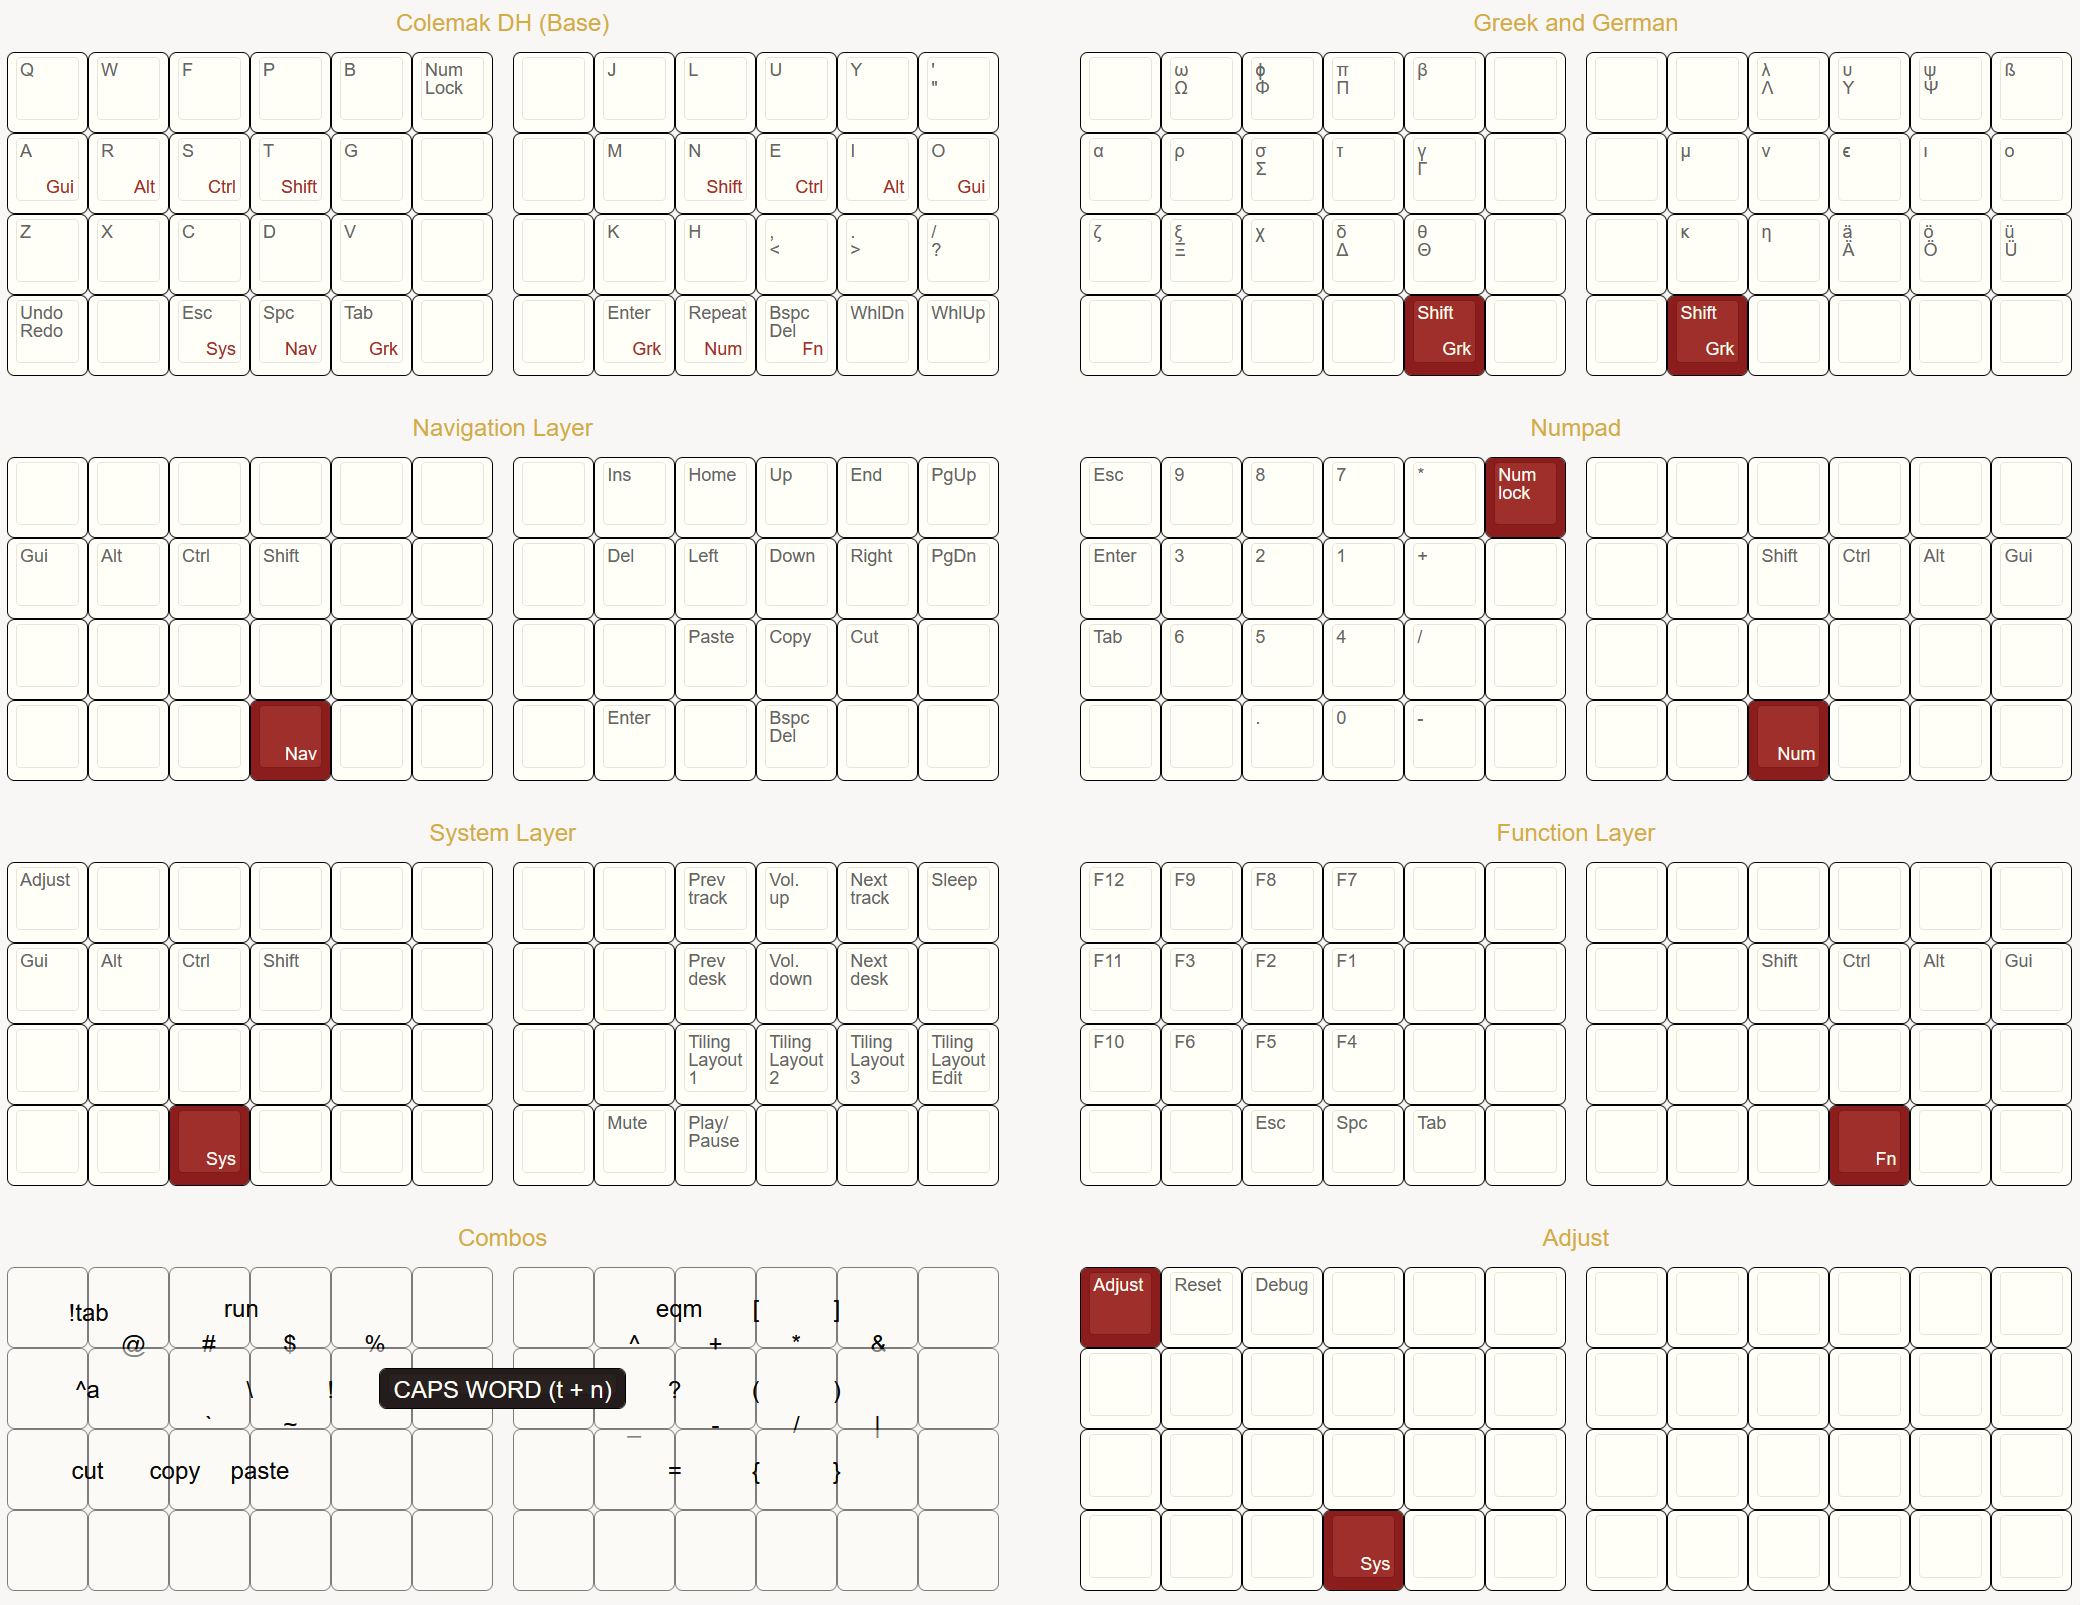
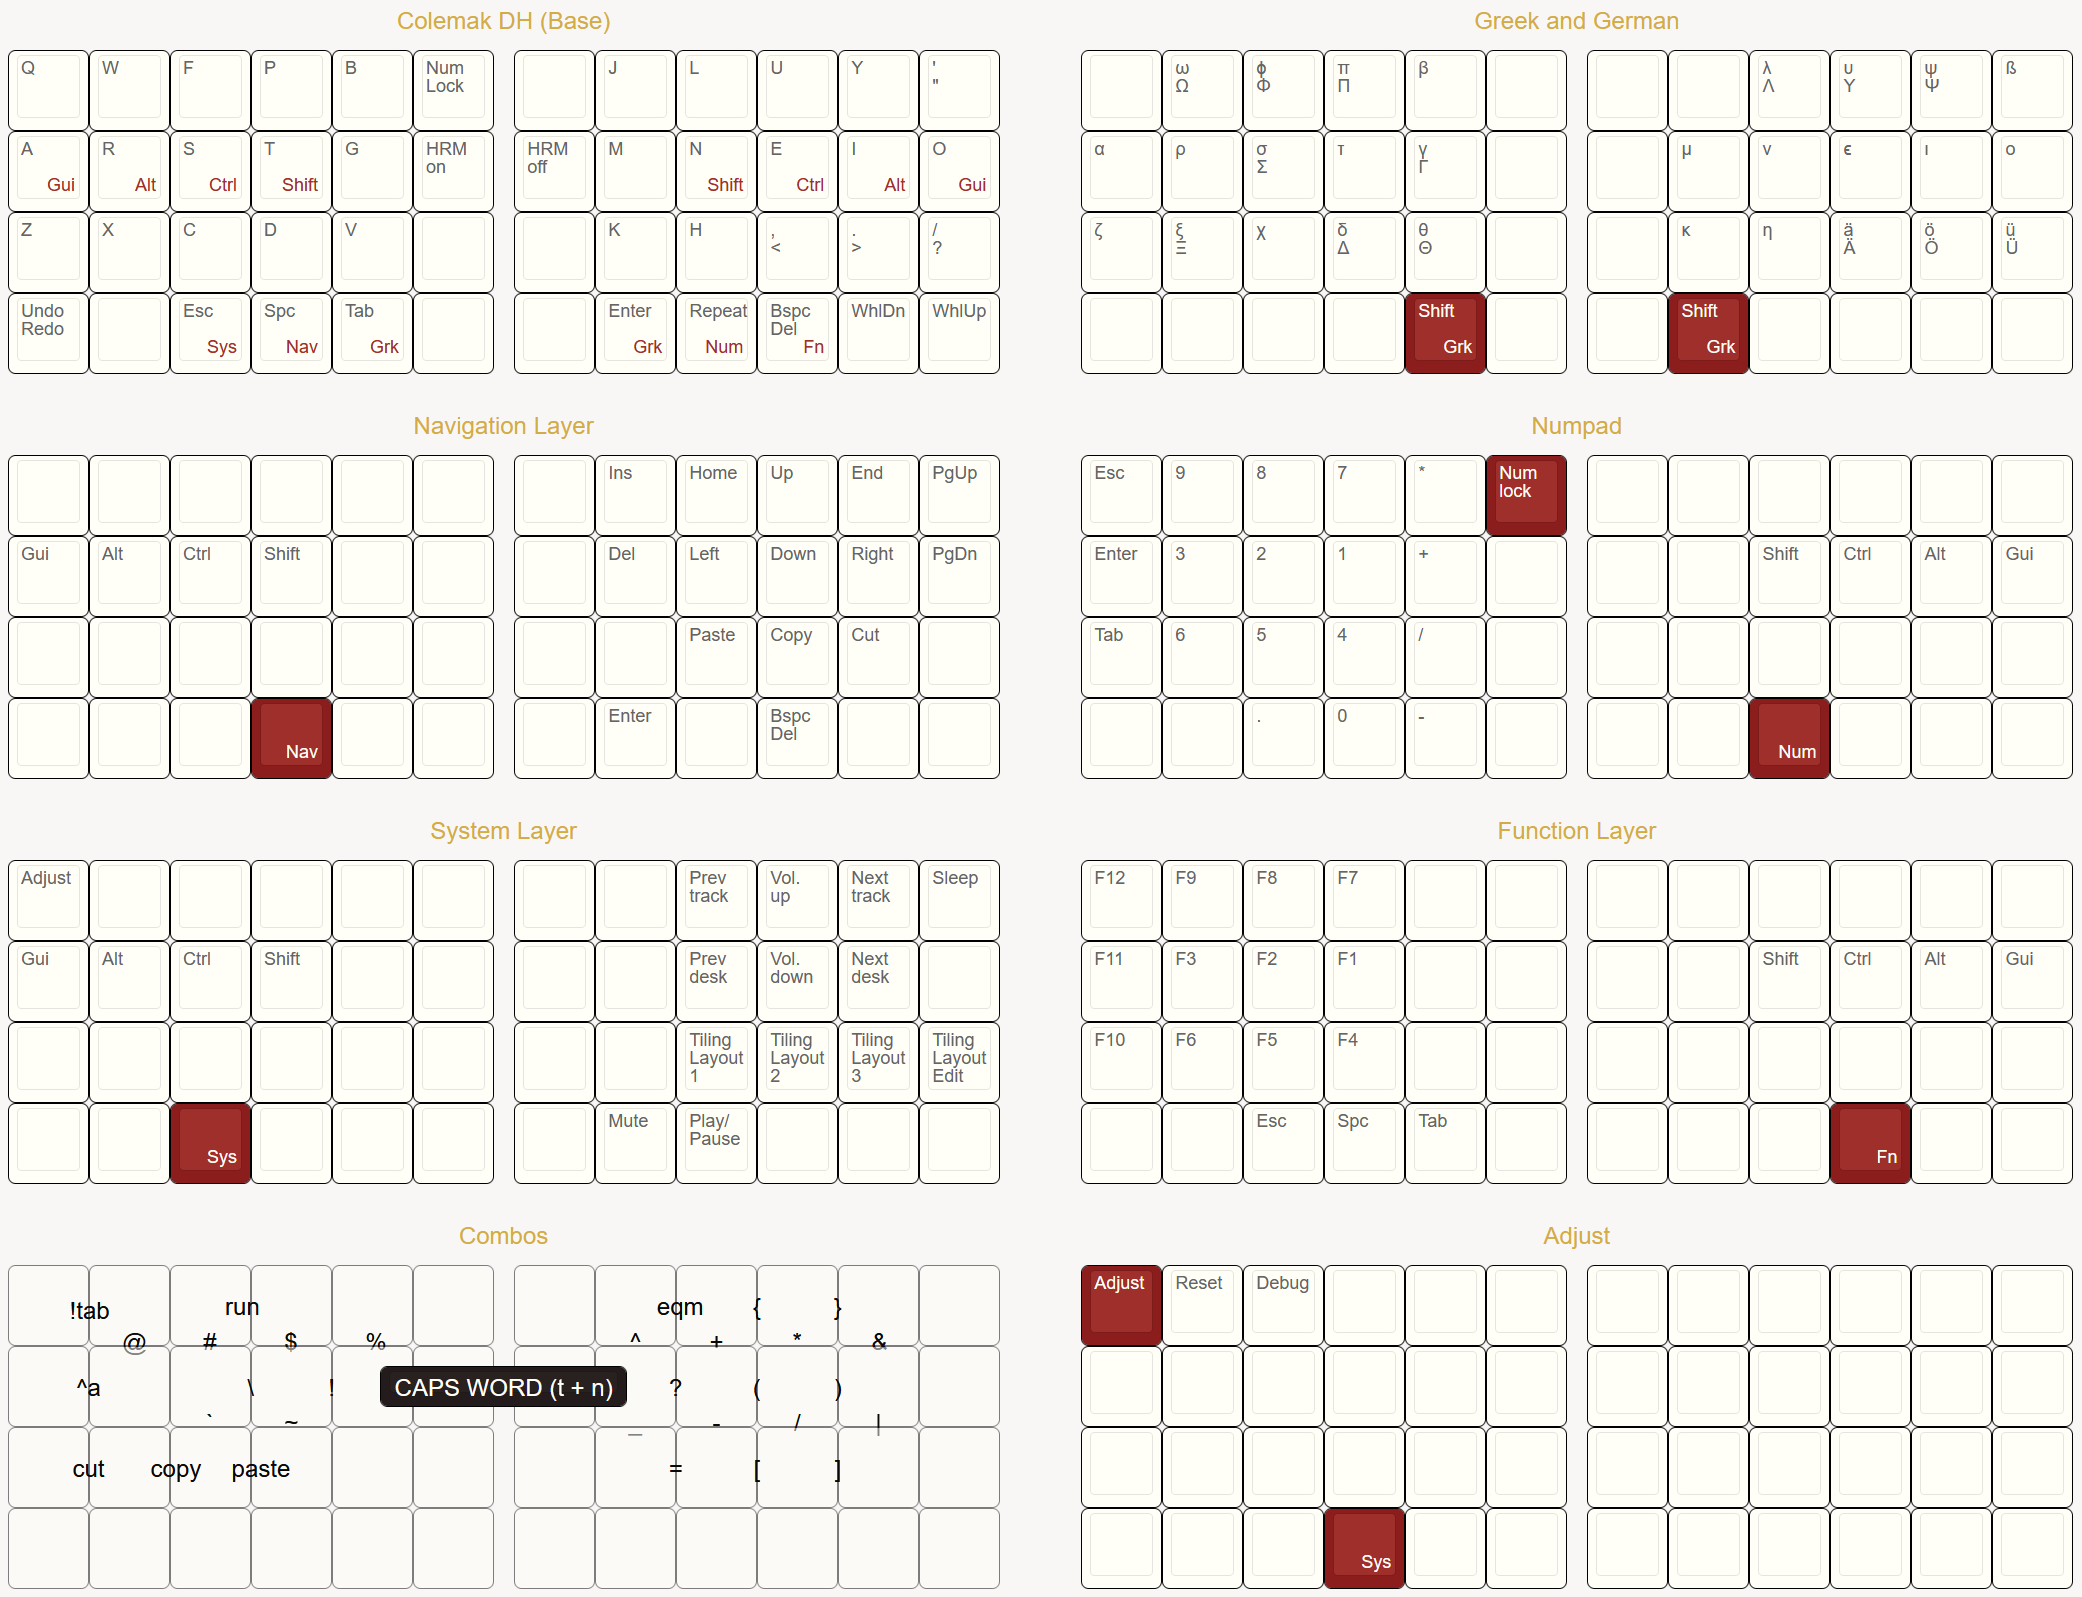
switch curly and square brace, update layout

diff --git a/keyboards/planck/keymaps/urob/keymap.c b/keyboards/planck/keymaps/urob/keymap.c
@@ -186,7 +186,7 @@ void process_repeat_key(uint16_t keycode, const keyrecord_t *record) {
 static uint16_t non_combo_input_timer = 0;
 uint16_t get_combo_term(uint16_t index, combo_t *combo) {
 
-  if ((index >= QW_MTAB) && (index <= COMDOT_RCBR)) { // horizontal alpha combos
+  if ((index >= QW_MTAB) && (index <= COMDOT_RBRC)) { // horizontal alpha combos
     return timer_elapsed(non_combo_input_timer) > 300 ? 25 : 5;
   } 
 
